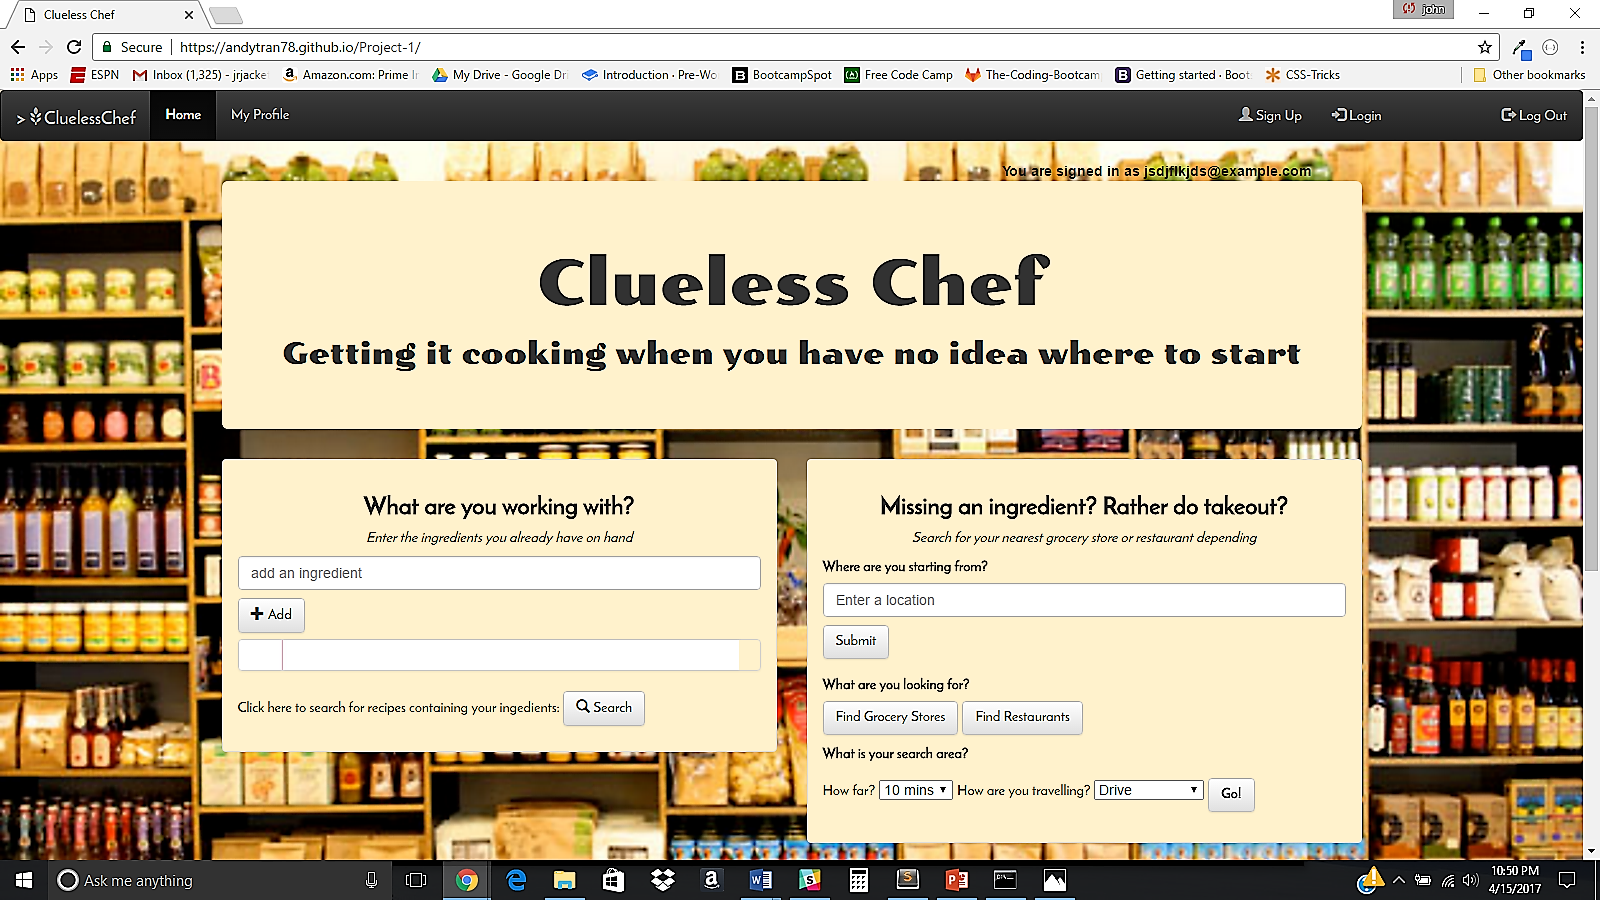
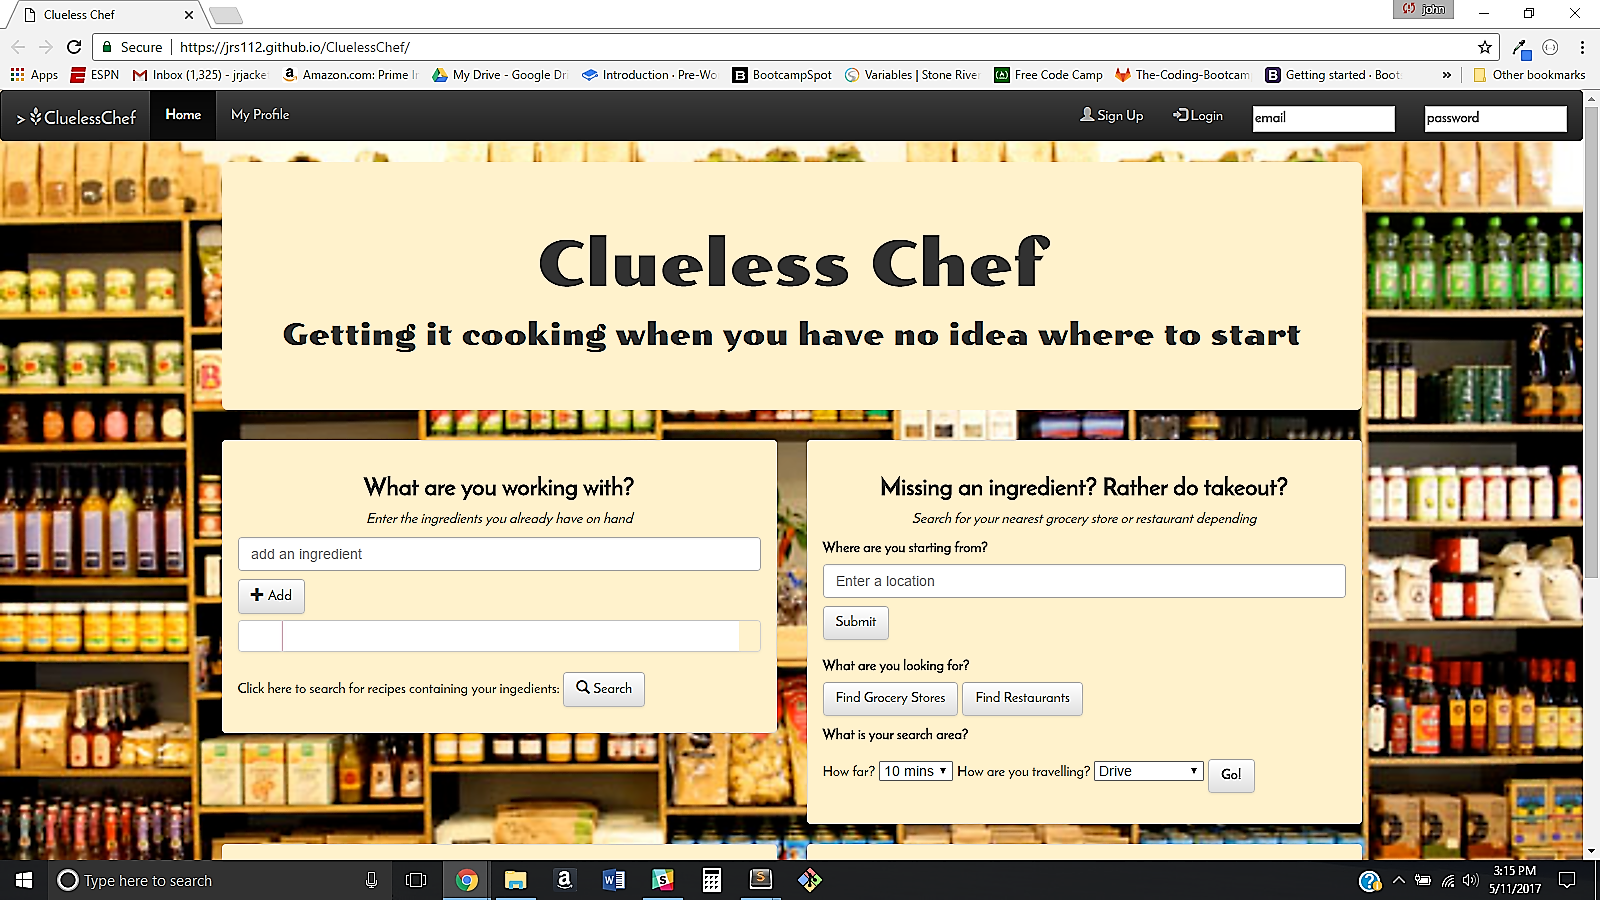
Update clueless chef and portfolio font

diff --git a/portfolio.html b/portfolio.html
@@ -14,7 +14,7 @@
 <script src="https://maxcdn.bootstrapcdn.com/bootstrap/3.3.7/js/bootstrap.min.js" integrity="sha384-Tc5IQib027qvyjSMfHjOMaLkfuWVxZxUPnCJA7l2mCWNIpG9mGCD8wGNIcPD7Txa" crossorigin="anonymous"></script>
 
 <link href="https://fonts.googleapis.com/css?family=Lobster" rel="stylesheet">
-<link href="https://fonts.googleapis.com/css?family=Concert+One" rel="stylesheet">
+<link href="https://fonts.googleapis.com/css?family=BioRhyme" rel="stylesheet">
 
 <link rel="stylesheet" type="text/css" href="assets/css/style.css">
 
@@ -41,7 +41,7 @@
 			<section class="content">
 
 				<h2 class="about-me">My Portfolio</h2>
-					<a href="https://andytran78.github.io/Project-1/" target="_blank">
+					<a href="https://jrs112.github.io/CluelessChef" target="_blank">
 						<img class="firstProject img-thumbnail" src="assets/images/cluelessChef.png" alt="clueless chef">
 					</a>
 					<div id="firstProjectContent"></div>

diff --git a/assets/javascript/portfolio.js b/assets/javascript/portfolio.js
@@ -6,7 +6,7 @@ $(".firstProject").hover(
     function() {
         $("#firstProjectContent").html("<h5>A website that allows you to search for recipes based on the ingredients you already have or want to use." +
         " You can also find details of restraunts and grocery stores in your area and filter them by travel time." +
-        " This website uses HTML, CSS, Bootstrap, JavaScript, JQUERY, FireBase, Google Maps API, Edamame Recipe API.</h5>");
+        " This website uses HTML, CSS, Bootstrap, JavaScript, JQUERY, FireBase, Google Maps API, and the Edamame Recipe API.</h5>");
     }
     ,function() {
         $("#firstProjectContent").html("");

diff --git a/assets/css/style.css b/assets/css/style.css
@@ -53,7 +53,7 @@ h5 {
 	border-color: black;
 	color: white;
 	background: #4aaaa5;
-	font-family: 'Concert One', cursive;
+	font-family: 'BioRhyme', serif;
 	font-size: 20px;
 	padding: 5px;
 }
